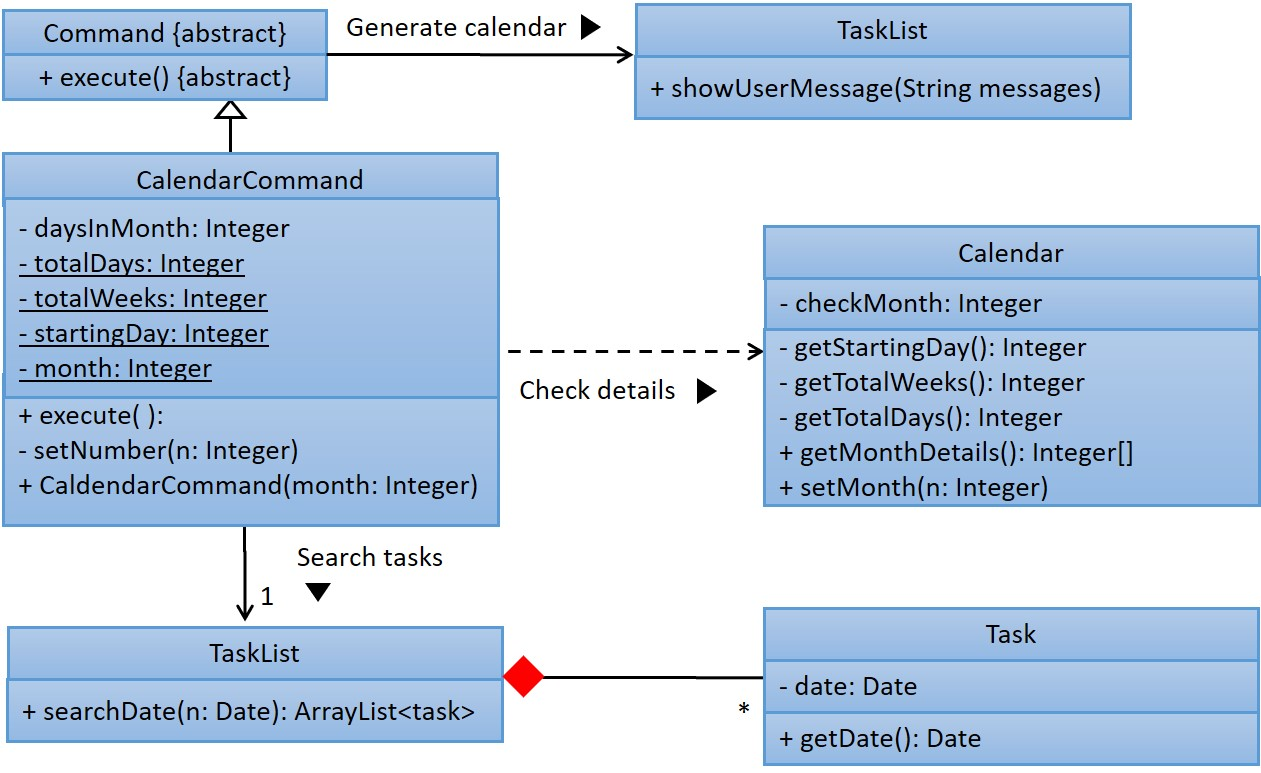
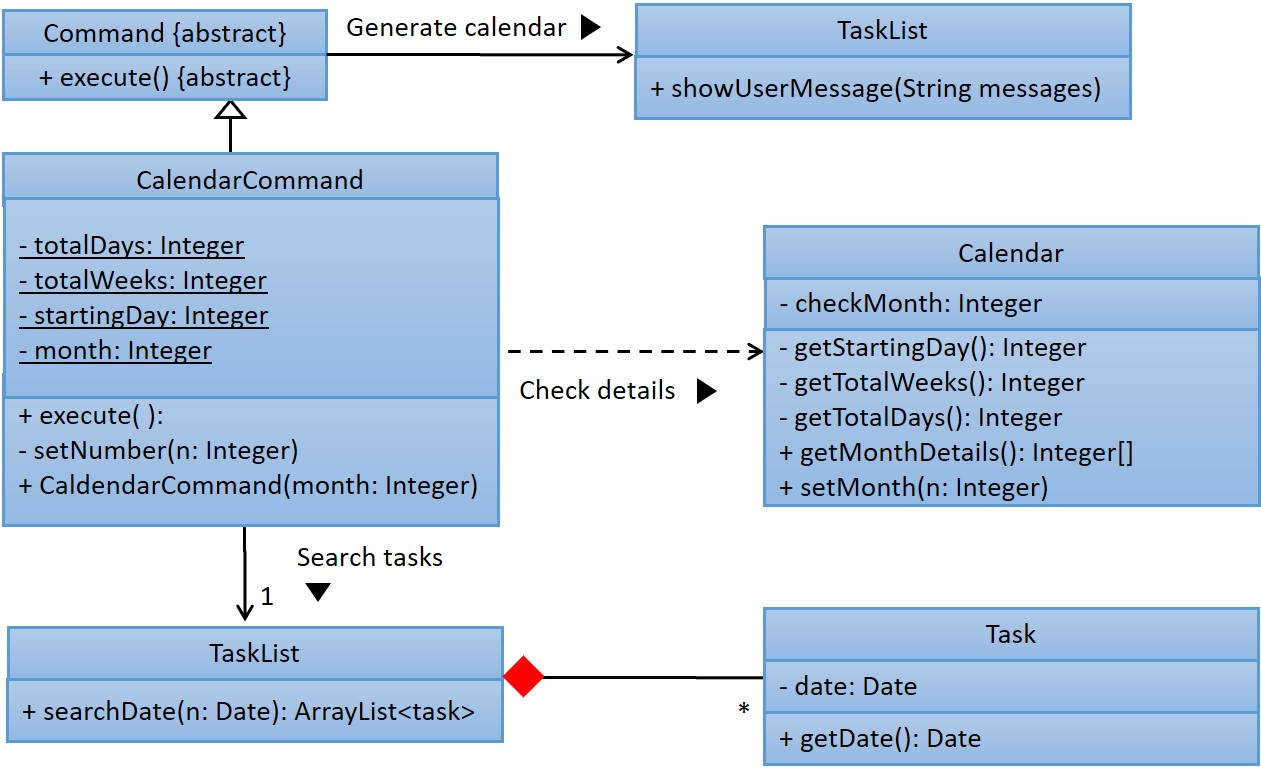
Update CalendarCommand class diagram

Changed region(s): [[0.0, 0.2794, 0.2474, 0.4968]]

diff --git a/docs/DeveloperGuide.md b/docs/DeveloperGuide.md
@@ -53,33 +53,42 @@ Given below is an example usage scenario and how the mechanism behaves at each s
 
 1. The user inputs the command word `calendar`. Upon which, the instance of parser will return a CalendarCommand for execution
 1. CalendarCommand initialises with the following variables, with the help from a calendar class containing the necessary methods related to day/date.
-    * currentMonth - if user does not input month, it uses computer's current month
+    * month - if user does not input month, it uses computer's current month
     * startingDay - which day of the week the first day of the months begins on (0-6, where 0 is Monday)
     * totalDays - how many days in that month
-    * weekCount - number of weeks of the month
+    * totalWeeks - number of weeks of the month
+  
 1. The `calendar` command calls on TaskList#findTaskDate() for each day of the month to generate the task listing for a particular day. Only the task event and description is added to calendar view. 
 1. The calendar generated is then stored in a string and UI#showUserMesssage() is called to display the calendar. 
 
 The class diagram below shows the relationships between the different classes required by the `calendar` feature.
 ![Sequence diagram for CalendarCommand](images/CalendarCommand_class.jpg)
 
+
 The following diagram summarises what happens when a user executes a new `calendar` command:
 ![Sequence diagram for CalendarCommand](images/CalendarCommand_sequence.jpg)
 
+
 ##### 3.1.2.2 Design Considerations
-1. Aspect: How calendar executes
-    * Alternative 1 (current choice):
-    * Alternative 2:
 1. Aspect: Obtaining information required for generating monthly view
+    
     * Alternative 1: (current choice) Algorithm to deduce how many weeks in month, which day a date is, how many days in that month
         * Pros: Will use less memory, requiring only one starting date we are able to derive any other dates. No need to worry about changing template for the new year
         * Cons: New developers will take additional effort to understand how the algorithm works.
+   
     * Alternative 2: Hardcoded information (constant variables to tell days in month/how many weeks)
         * Pros: Easy maintenance, tedious but easily calculated with web applications.
         * Cons: Tedious and not sustainable, constant updates have to be done to edit the fields for a new year
+
 1. Aspect: Which month to use
+   
     * User might want to know schedule for other months, but might also want a quick view of current month
     * Solution is to set a default month (taken from computer) and also allow input for preferred month.
+ 
+1. Aspect: generation of monthly details 
+    
+    * Calculation of details are shifted from the command to a separate class. 
+    This is to enable easier maintenance for methods relating to calendar features.
     
 ## 4. Documentation
 
